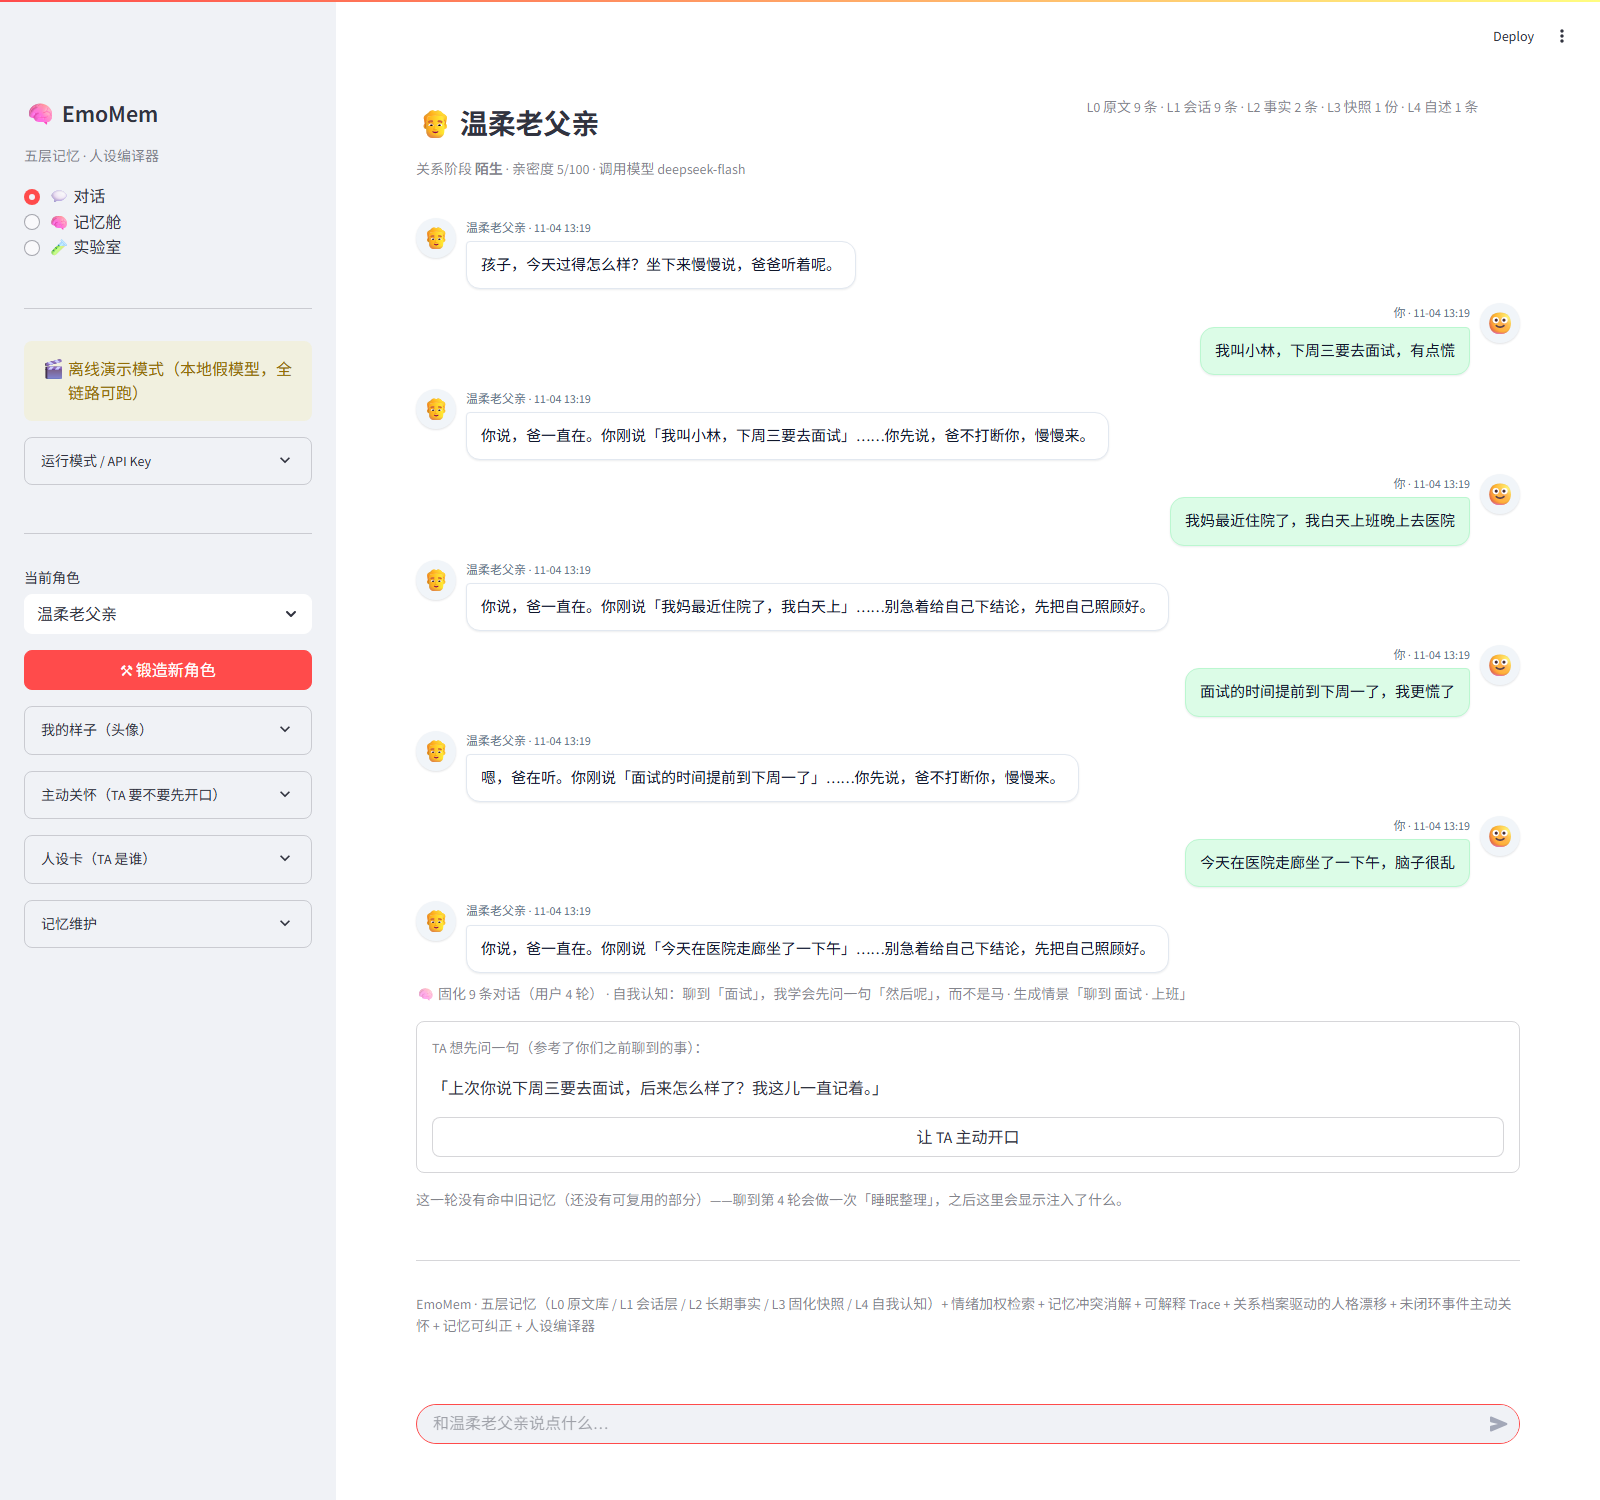
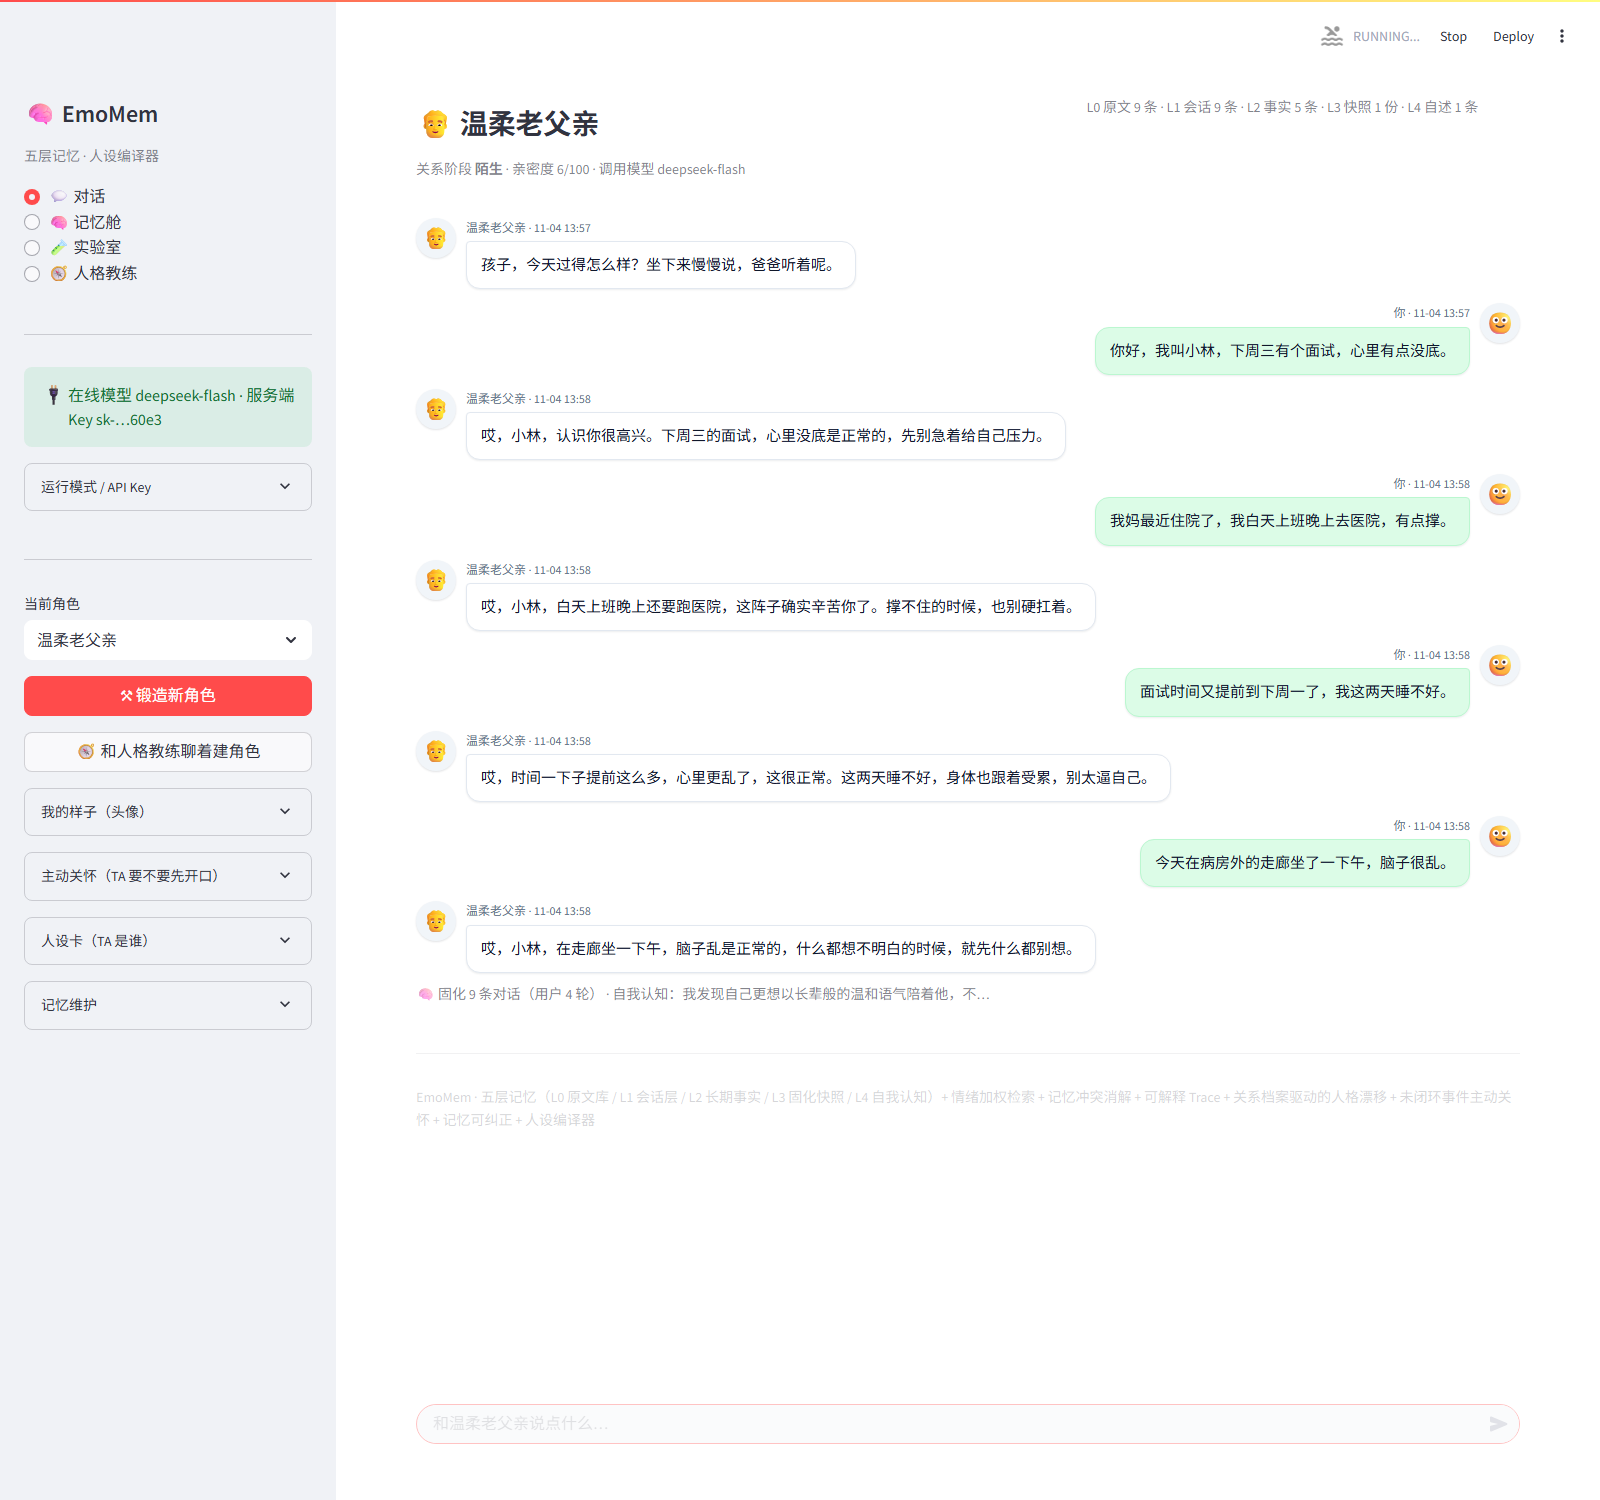
docs: 真机截图更新（对话/记忆舱/Trace/教练），README 预览表补两格
- 01/02/03 换成接真实模型跑出来的对话（离线演示模式的模板措辞不适合当预览）
- 新增 05-sending（刚发出、TA 还在回忆的那一帧）与 06-coach（人格教练五问访谈）
- README 预览说明改为"接真实模型跑的；演示模式下措辞是固定模板"

diff --git a/README.md b/README.md
@@ -83,15 +83,19 @@ streamlit run app.py
 | `DEEPSEEK_MODEL` | `deepseek-flash` | 对话与结构化调用使用的模型 |
 | `EMO_DEMO_MODE` | 未设置 | 设为 `1` 强制离线演示模式（答辩兜底） |
 
-界面预览（离线演示模式，五轮对话之后）：
+界面预览（接真实模型跑的；`EMO_DEMO_MODE=1` 时措辞会变成固定的本地模板）：
 
-| 对话 | 记忆舱 · 五层总览 |
+| 对话（你的气泡在右） | 刚发出、还在等 TA 回忆 |
 |---|---|
-| ![对话](docs/screenshots/01-chat.png) | ![记忆舱](docs/screenshots/02-memory-cabin.png) |
+| ![对话](docs/screenshots/01-chat.png) | ![发送中](docs/screenshots/05-sending.png) |
 
-| L0 原文库 · 搜索 | 实验室 · 本轮 Trace |
+| 记忆舱 · 五层总览 | 实验室 · 本轮 Trace |
 |---|---|
-| ![原文库](docs/screenshots/04-archive-search.png) | ![Trace](docs/screenshots/03-lab-trace.png) |
+| ![记忆舱](docs/screenshots/02-memory-cabin.png) | ![Trace](docs/screenshots/03-lab-trace.png) |
+
+| L0 原文库 · 搜索 | 🧭 人格教练 · 五问访谈 |
+|---|---|
+| ![原文库](docs/screenshots/04-archive-search.png) | ![人格教练](docs/screenshots/06-coach.png) |
 
 自检：
 
